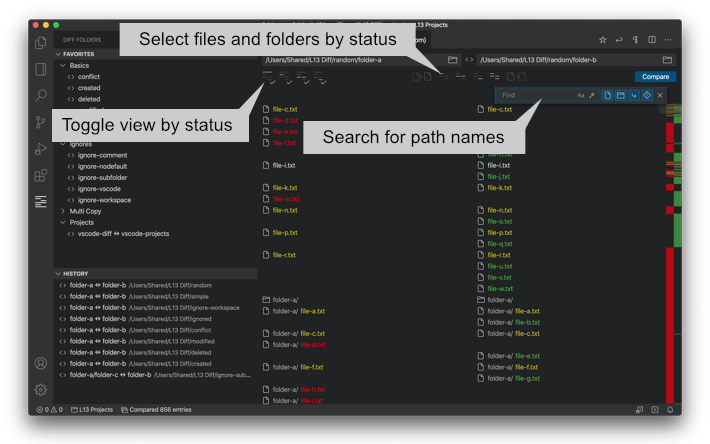
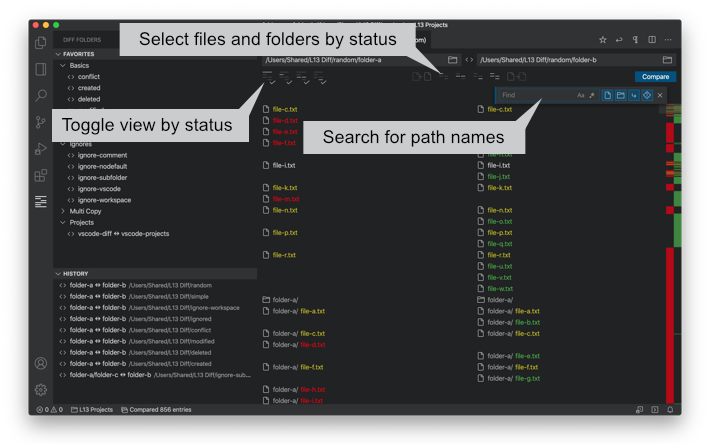
- some fixes

Changed region(s): [[0.031, 0.0586, 0.9915, 0.9955]]

diff --git a/README.md b/README.md
@@ -58,7 +58,7 @@ Compare two folders in Visual Studio Code.
 
 ### Supports [Projects](https://marketplace.visualstudio.com/items?itemName=L13RARY.l13-projects)
 
-![Projects](images/preview-l13-projects.png)
+![Projects](images/preview-projects.png)
 
 ## Available Commands
 
